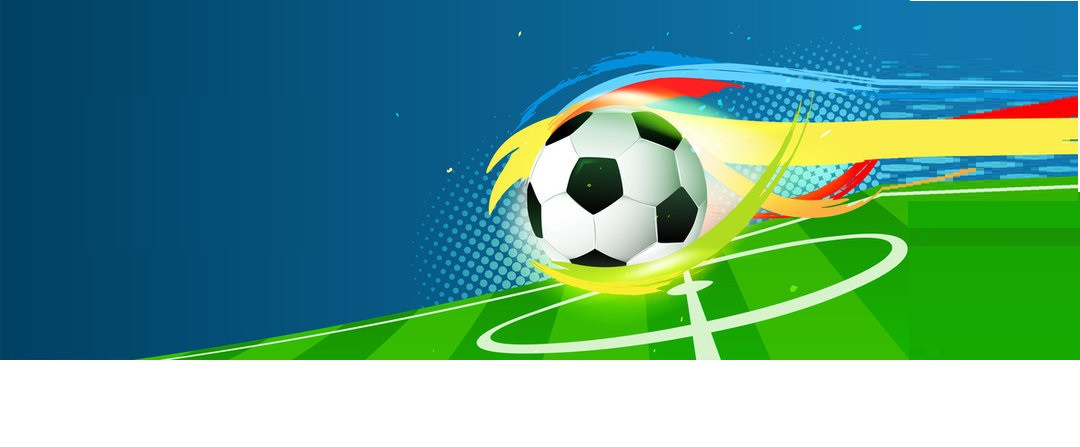
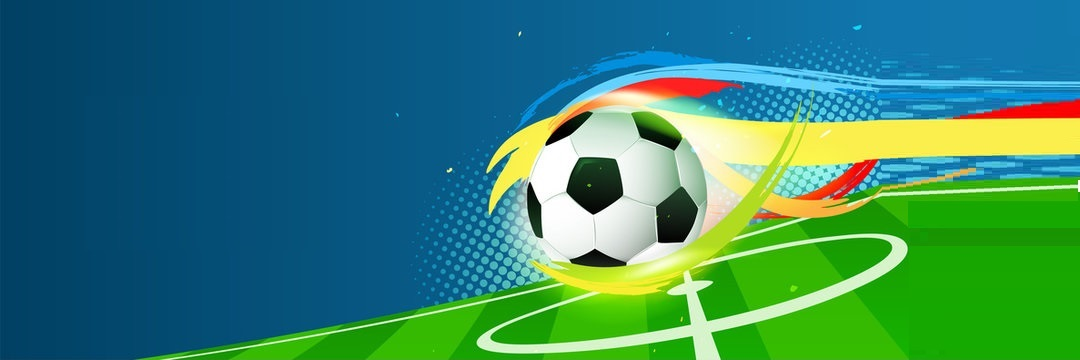
Commit

diff --git a/frontend/src/componentes/style/Banner.css b/frontend/src/componentes/style/Banner.css
@@ -4,23 +4,23 @@
   max-width: 100%; /* Ajusta el contenedor al tamaño del viewport */
   overflow: hidden; /* Oculta el contenido que se desborda */
   border-radius: 10px; /* Bordes redondeados opcionales */
-  height: 400px; /* Altura fija para el contenedor del carrusel */
+  aspect-ratio: 16 / 9; /* Mantiene una proporción fija, ajustable según tus necesidades */
 }
 
 /* Estilo para el contenedor interno del carrusel */
 .carousel-inner {
-  height: 70%; /* Asegura que el contenedor interno ocupe toda la altura */
+  height: 100%; /* Asegura que el contenedor interno ocupe toda la altura del contenedor */
 }
 
 /* Estilo para cada ítem del carrusel */
 .carousel-item {
-  height: 50%; /* Asegura que cada ítem del carrusel ocupe toda la altura del contenedor */
+  height: 100%; /* Asegura que cada ítem del carrusel ocupe toda la altura del contenedor */
 }
 
 /* Estilo para las imágenes del carrusel */
 .carousel-img {
-  width: 50%; /* Asegura que la imagen cubra todo el ancho del contenedor */
-  height: 50%; /* Asegura que la imagen cubra toda la altura del contenedor */
+  width: 100%; /* Asegura que la imagen cubra todo el ancho del contenedor */
+  height: 100%; /* Asegura que la imagen cubra toda la altura del contenedor */
   object-fit: cover; /* Ajusta la imagen para cubrir el contenedor sin distorsionar */
 }
 
@@ -28,7 +28,7 @@
 .carousel-control-prev,
 .carousel-control-next {
   width: 5%; /* Ajusta el ancho de los botones de control */
-  height: 50%; /* Asegura que los botones de control ocupen toda la altura del contenedor */
+  height: 100%; /* Asegura que los botones de control ocupen toda la altura del contenedor */
   color: white; /* Color del ícono */
   border: none; /* Sin borde */
   display: flex;
@@ -36,14 +36,17 @@
   justify-content: center; /* Centra horizontalmente el ícono */
   z-index: 5; /* Asegura que las flechas estén sobre el carrusel */
   top: 0; /* Posiciona el botón en la parte superior del contenedor */
+  position: absolute; /* Asegura que el botón esté posicionado respecto al contenedor */
 }
 
+/* Posiciona el botón de anterior en el borde izquierdo */
 .carousel-control-prev {
-  left: 0; /* Posiciona el botón de anterior en el borde izquierdo */
+  left: 0;
 }
 
+/* Posiciona el botón de siguiente en el borde derecho */
 .carousel-control-next {
-  right: 0; /* Posiciona el botón de siguiente en el borde derecho */
+  right: 0;
 }
 
 /* Estilo para los íconos de los botones de control */

diff --git a/frontend/src/componentes/reglas.js b/frontend/src/componentes/reglas.js
@@ -22,7 +22,10 @@ function Reglas() {
     return (
         <div className="reglamento">
             <br />
-            <h1 className="titulo-reglamento">DEPORTES PRACTICADOS DENTRO DEL ESTABLECIMIENTO EDUCATIVO</h1>
+            <div>
+                <h1 className="titulo-reglamento">DEPORTES PRACTICADOS DENTRO DEL ESTABLECIMIENTO EDUCATIVO</h1>
+            </div>
+            
             
             <div className="tarjeta">
                 <img src={futbol} alt="Imagen relacionada con microfútbol" className="imagen-tarjeta" />
